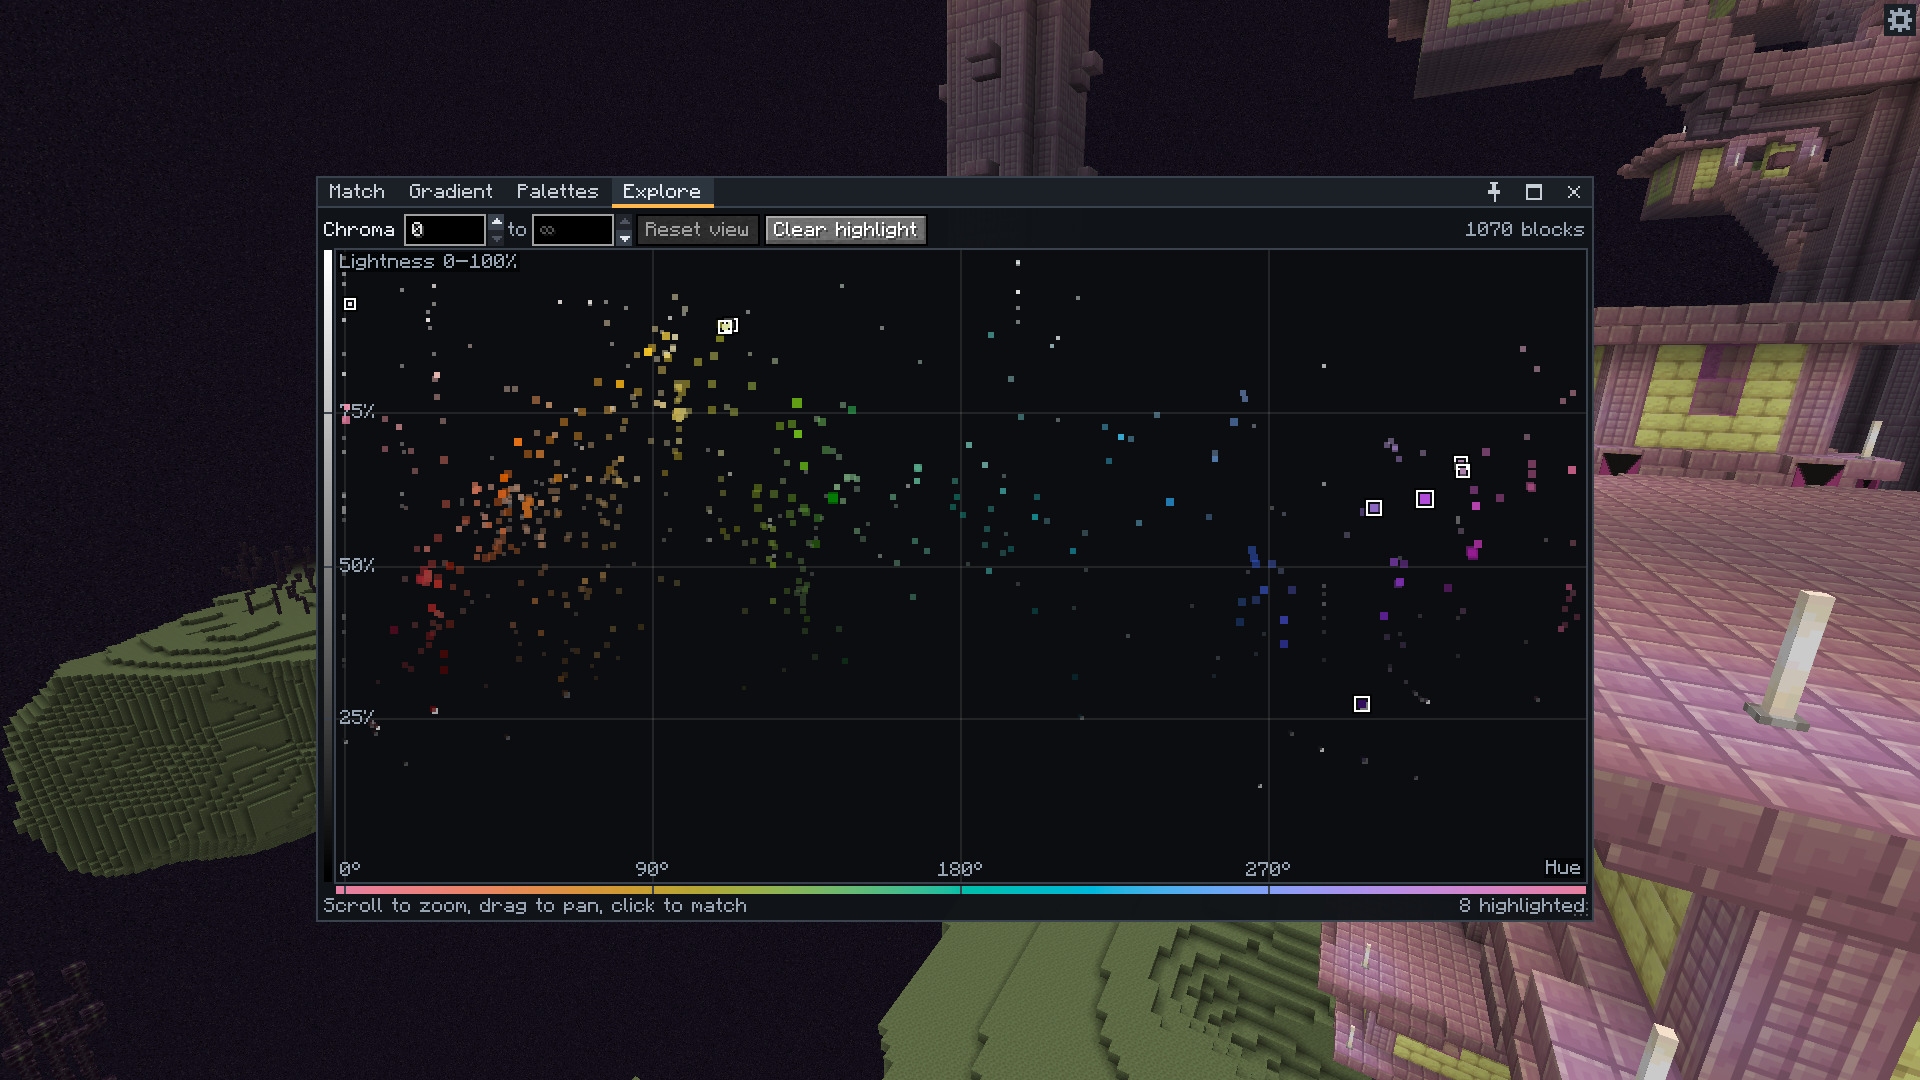
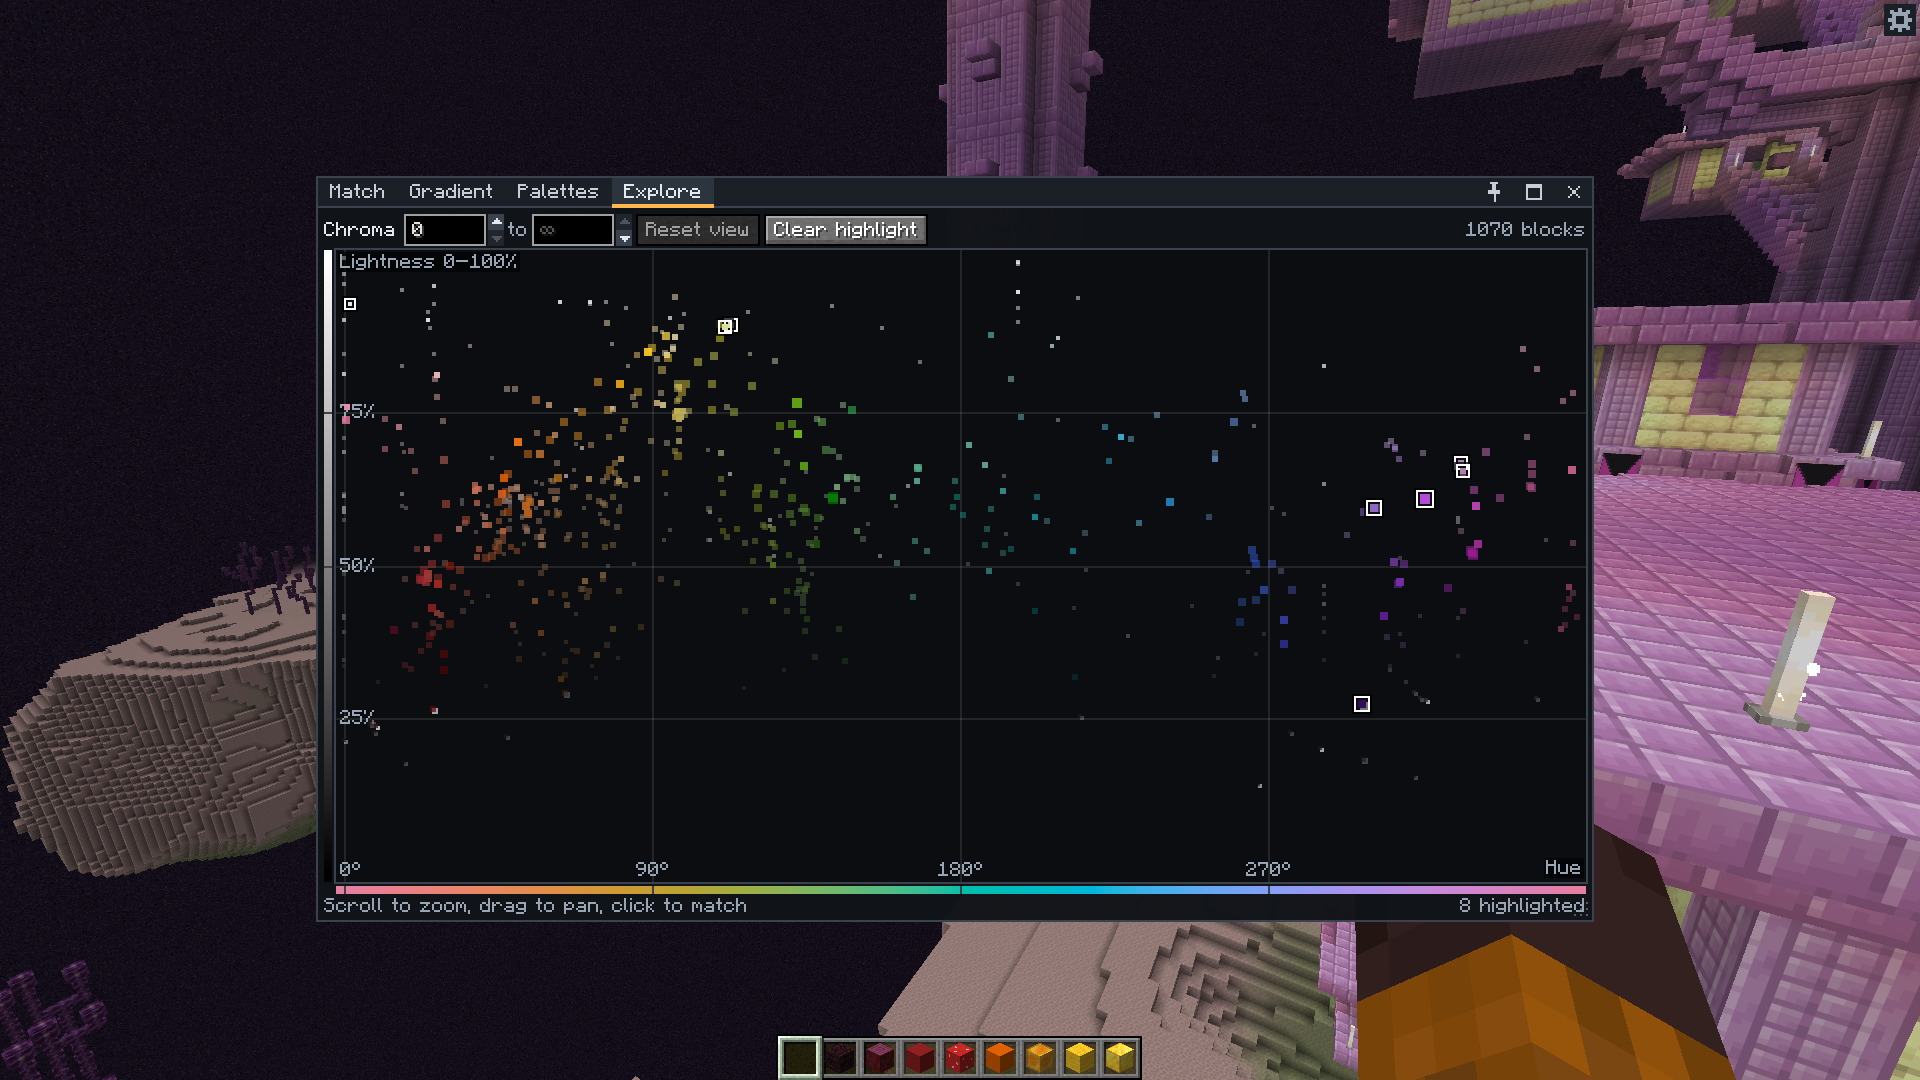
docs: retake listing screenshots without Axiom loaded, with the HUD shown

diff --git a/listing/gallery/README.md b/listing/gallery/README.md
@@ -14,13 +14,13 @@ Blossom pink in a cherry grove at sunset, and the closest blocks, nearest first.
 
 `02-material-set.jpg`
 
-Pale oak planks as the target, in a pale garden at dusk. A row opens to the other blocks of its material, here the logs, wood, slab, stairs, signs, fence and trapdoor, and one click makes them a palette.
+Pale oak planks as the target, in a pale garden at dusk. A row opens to the other blocks of its material, here the logs, wood, slab, stairs, signs, fence and trapdoor. The + button adds any of them to a palette.
 
 ## 3. Gradient
 
 `03-gradient.jpg`
 
-Sixteen steps of Nether fire, from near black through crimson and orange to gold. Click a step for its alternatives; here resin bricks replace lava at step 9.
+Sixteen full blocks of Nether fire, from near black through crimson and orange to gold. Click a step to see its alternatives or swap it.
 
 ## 4. Palettes
 
@@ -50,7 +50,7 @@ Every block as a dot, by hue and lightness. Scroll to zoom and click a dot to ma
 
 `08-eyedropper.jpg`
 
-Press X on a block to read its colour, here a giant mushroom's stem. The readout shows the block, its face and a swatch, and copies the hex. The hotbar holds a Nether fire gradient.
+Press X on a block to read its colour, here packed ice among the ice spikes at sunset. The readout shows the block, its face and a swatch, and copies the hex.
 
 ## 9. Axiom's editor
 
